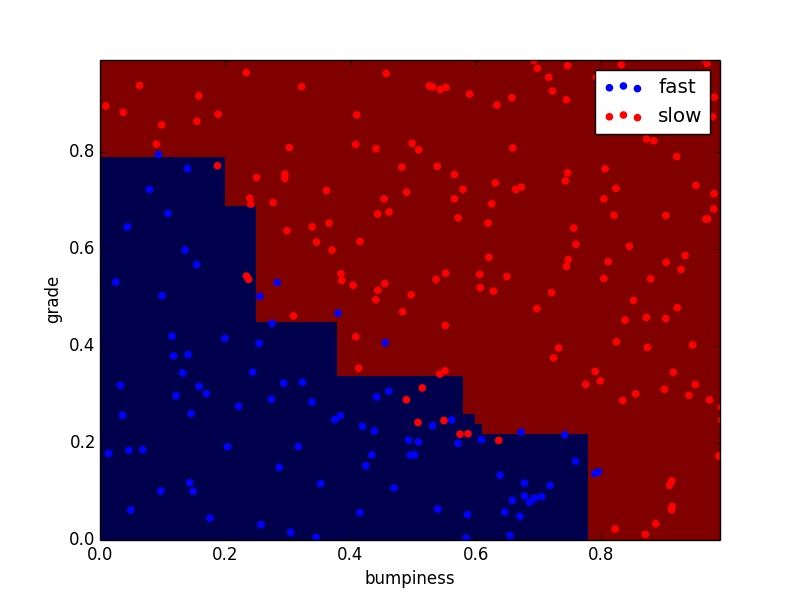
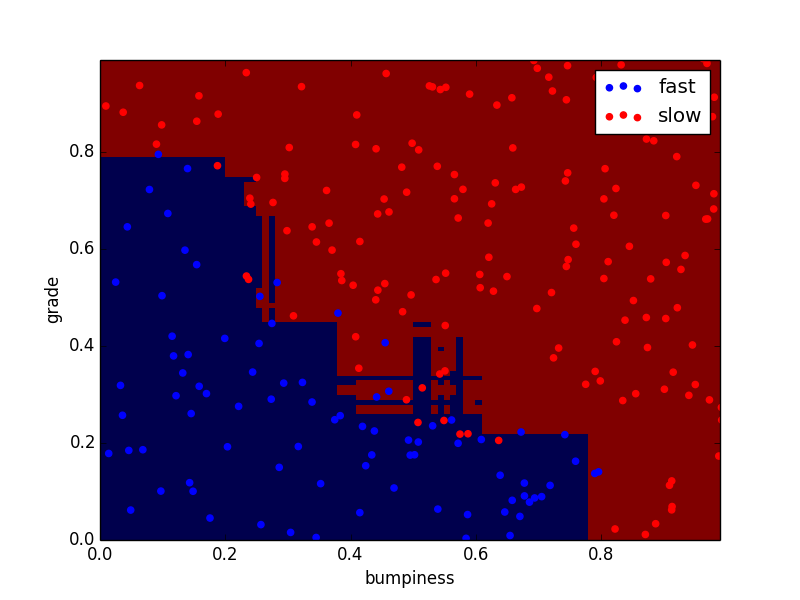
Tune some parameters

diff --git a/choose_your_own/your_algorithm.py b/choose_your_own/your_algorithm.py
@@ -31,8 +31,8 @@ plt.show()
 ### your code here!  name your classifier object clf if you want the 
 ### visualization code (prettyPicture) to show you the decision boundary
 from sklearn import ensemble
-# clf = ensemble.RandomForestClassifier()
-clf = ensemble.AdaBoostClassifier()
+# clf = ensemble.RandomForestClassifier(n_estimators=10)
+clf = ensemble.AdaBoostClassifier(n_estimators=1000)
 # t0 = time()
 clf.fit(features_train, labels_train)
 # print "training time:", round(time()-t0, 3), "s"
